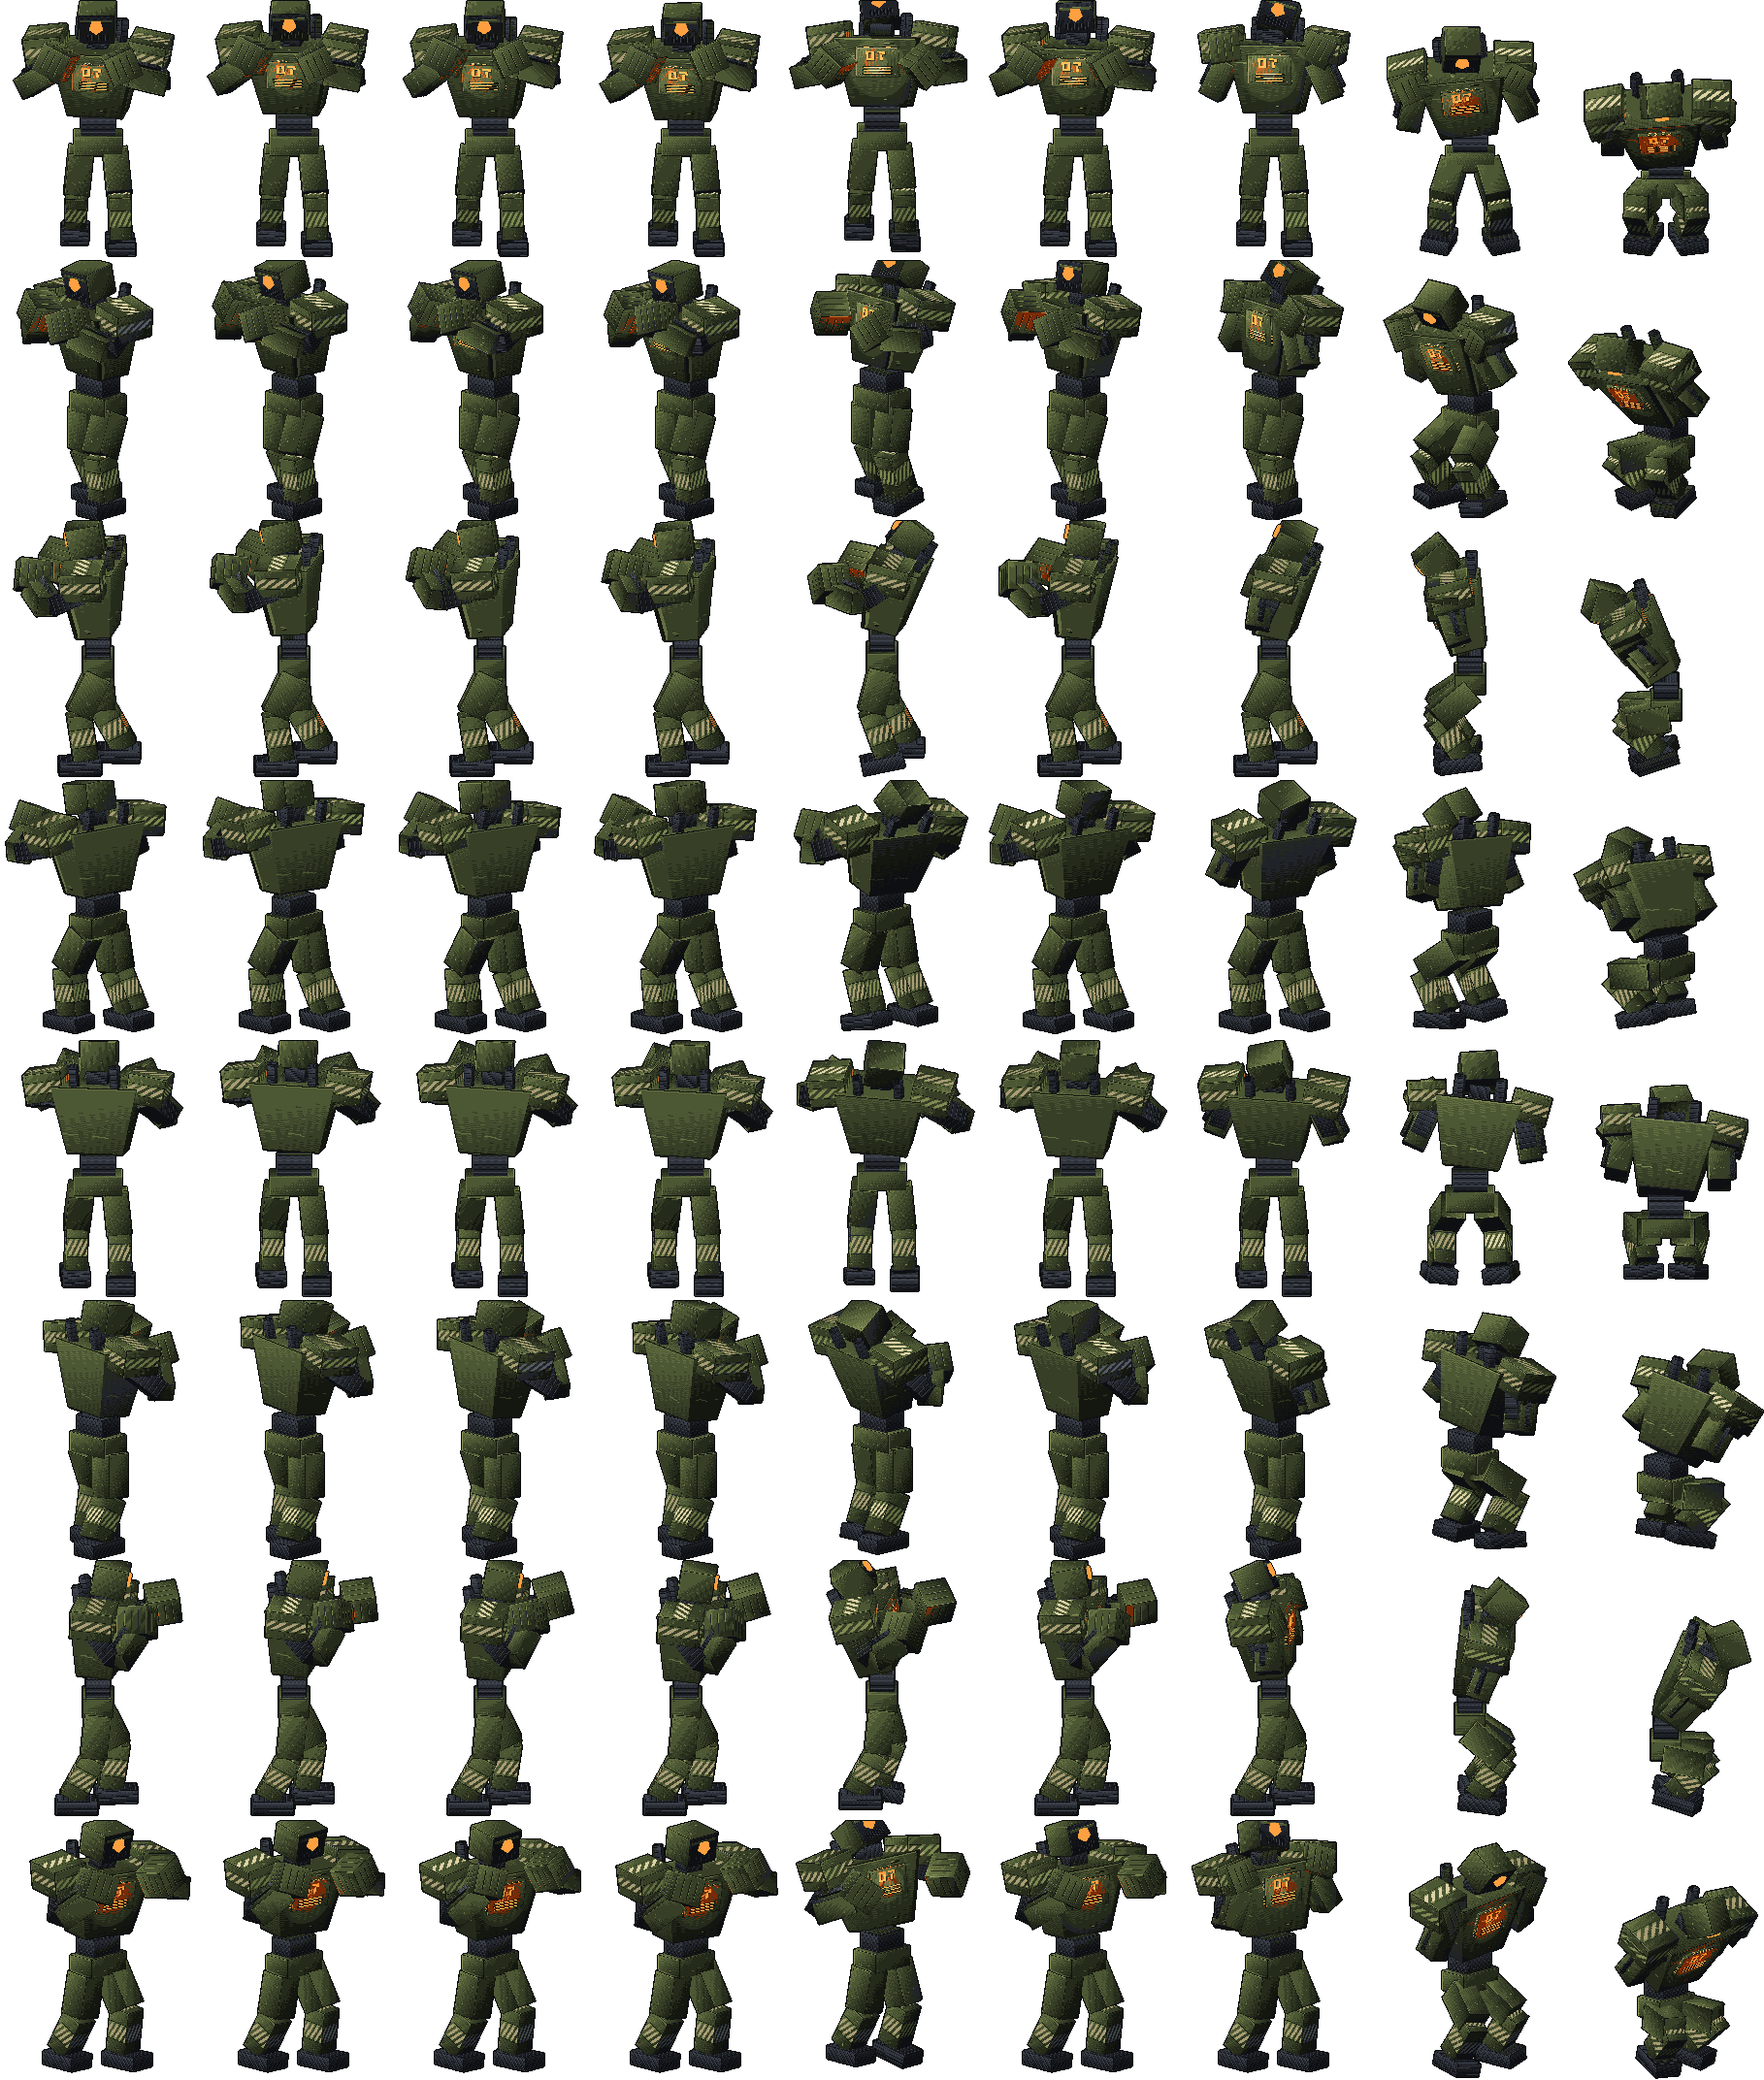
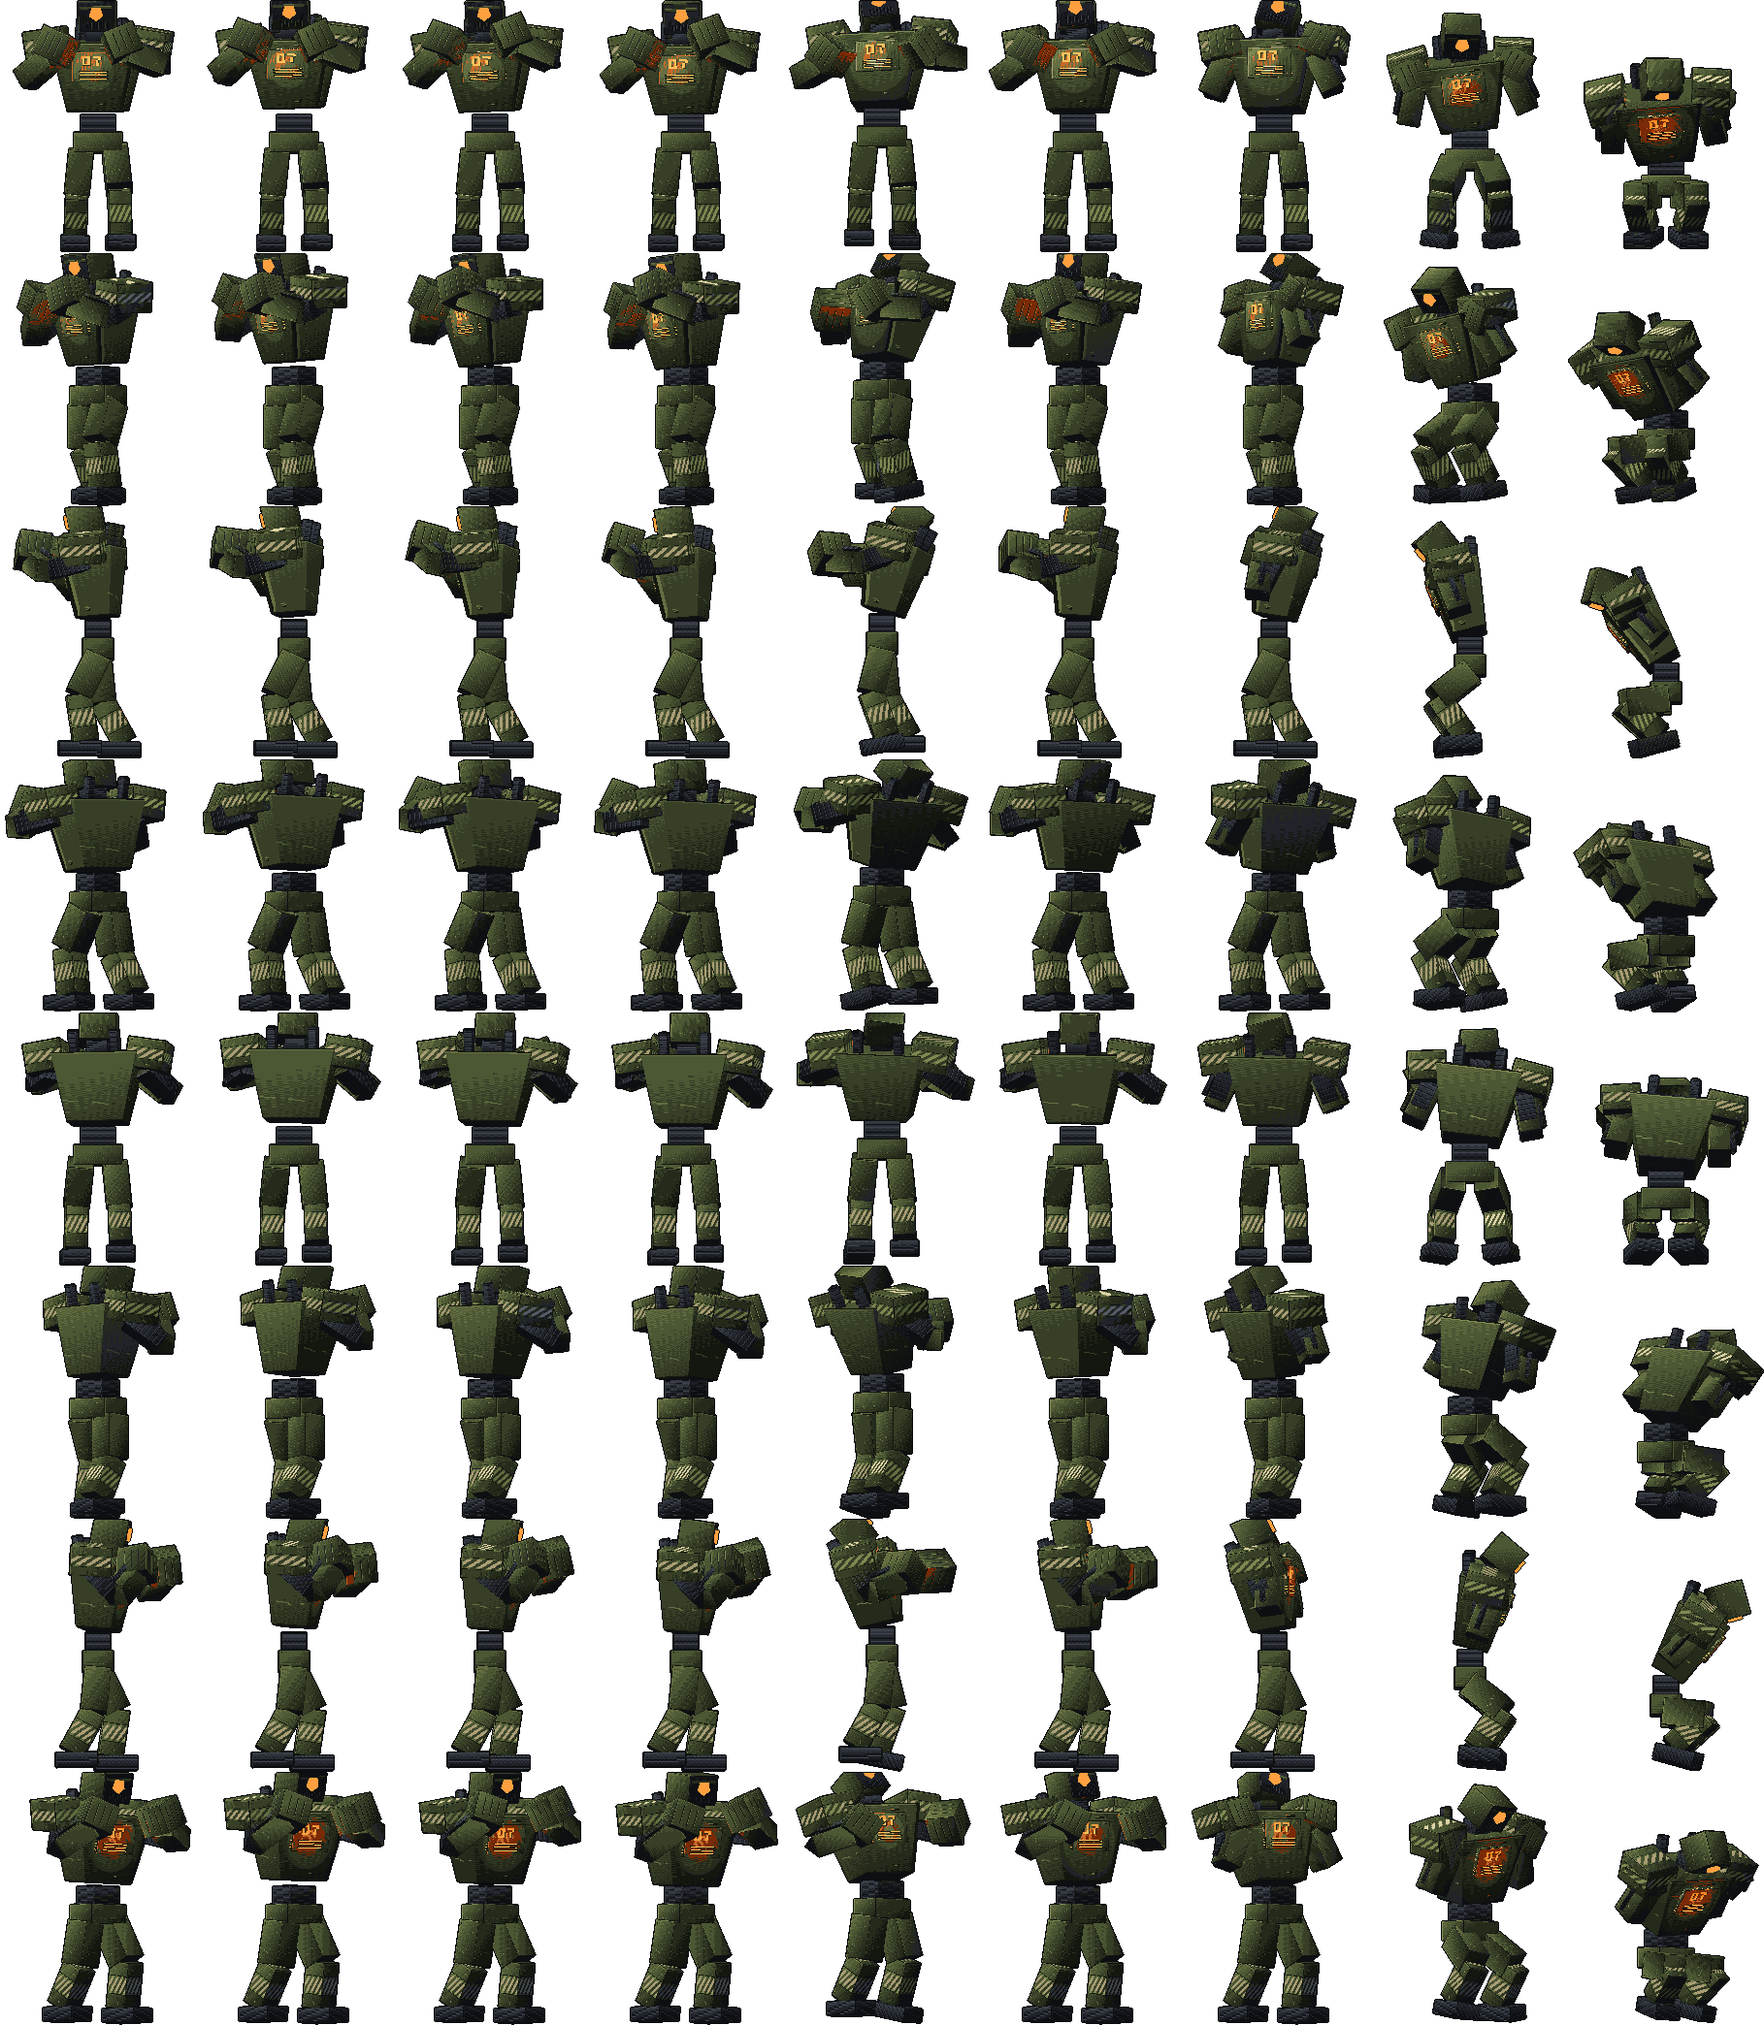
Crouched ringside operator camera; sprites re-drawn from the same low angle

diff --git a/art/export.js b/art/export.js
@@ -12,11 +12,12 @@ export async function savePNG(canvas, name) {
 const hex = s => [1, 3, 5].map(i => parseInt(s.slice(i, i + 2), 16));
 
 // Sheet: rows = 8 view directions (0 = front, 2 = robot's left, 4 = back, 6 = robot's right),
-// columns = frames. Orthographic, looking `pitch` degrees down, one crop box for every cell
+// columns = frames. Orthographic, looking `pitch` degrees down (negative = up: -3 matches the
+// game's crouched operator camera), one crop box for every cell
 // (so the feet stay put), colours snapped to `palette`, 1-pixel dark outline.
 // pose(i) puts the robot in frame i (from its rest pose); the robot faces +Z at rotation 0.
 export async function exportSheet({ renderer, scene, root, frameCount, pose, palette, name,
-                                    FW = 200, FH = 270, span = 5.3, pitch = 15, outline = [10, 12, 15] }) {
+                                    FW = 200, FH = 270, span = 5.3, pitch = -3, outline = [10, 12, 15] }) {
   renderer.setSize(FW, FH, false);
   const aspect = FW / FH, lookY = span / 2 - 0.25, p = THREE.MathUtils.degToRad(pitch);
   const cam = new THREE.OrthographicCamera(-span * aspect / 2, span * aspect / 2, span / 2, -span / 2, 0.1, 100);
